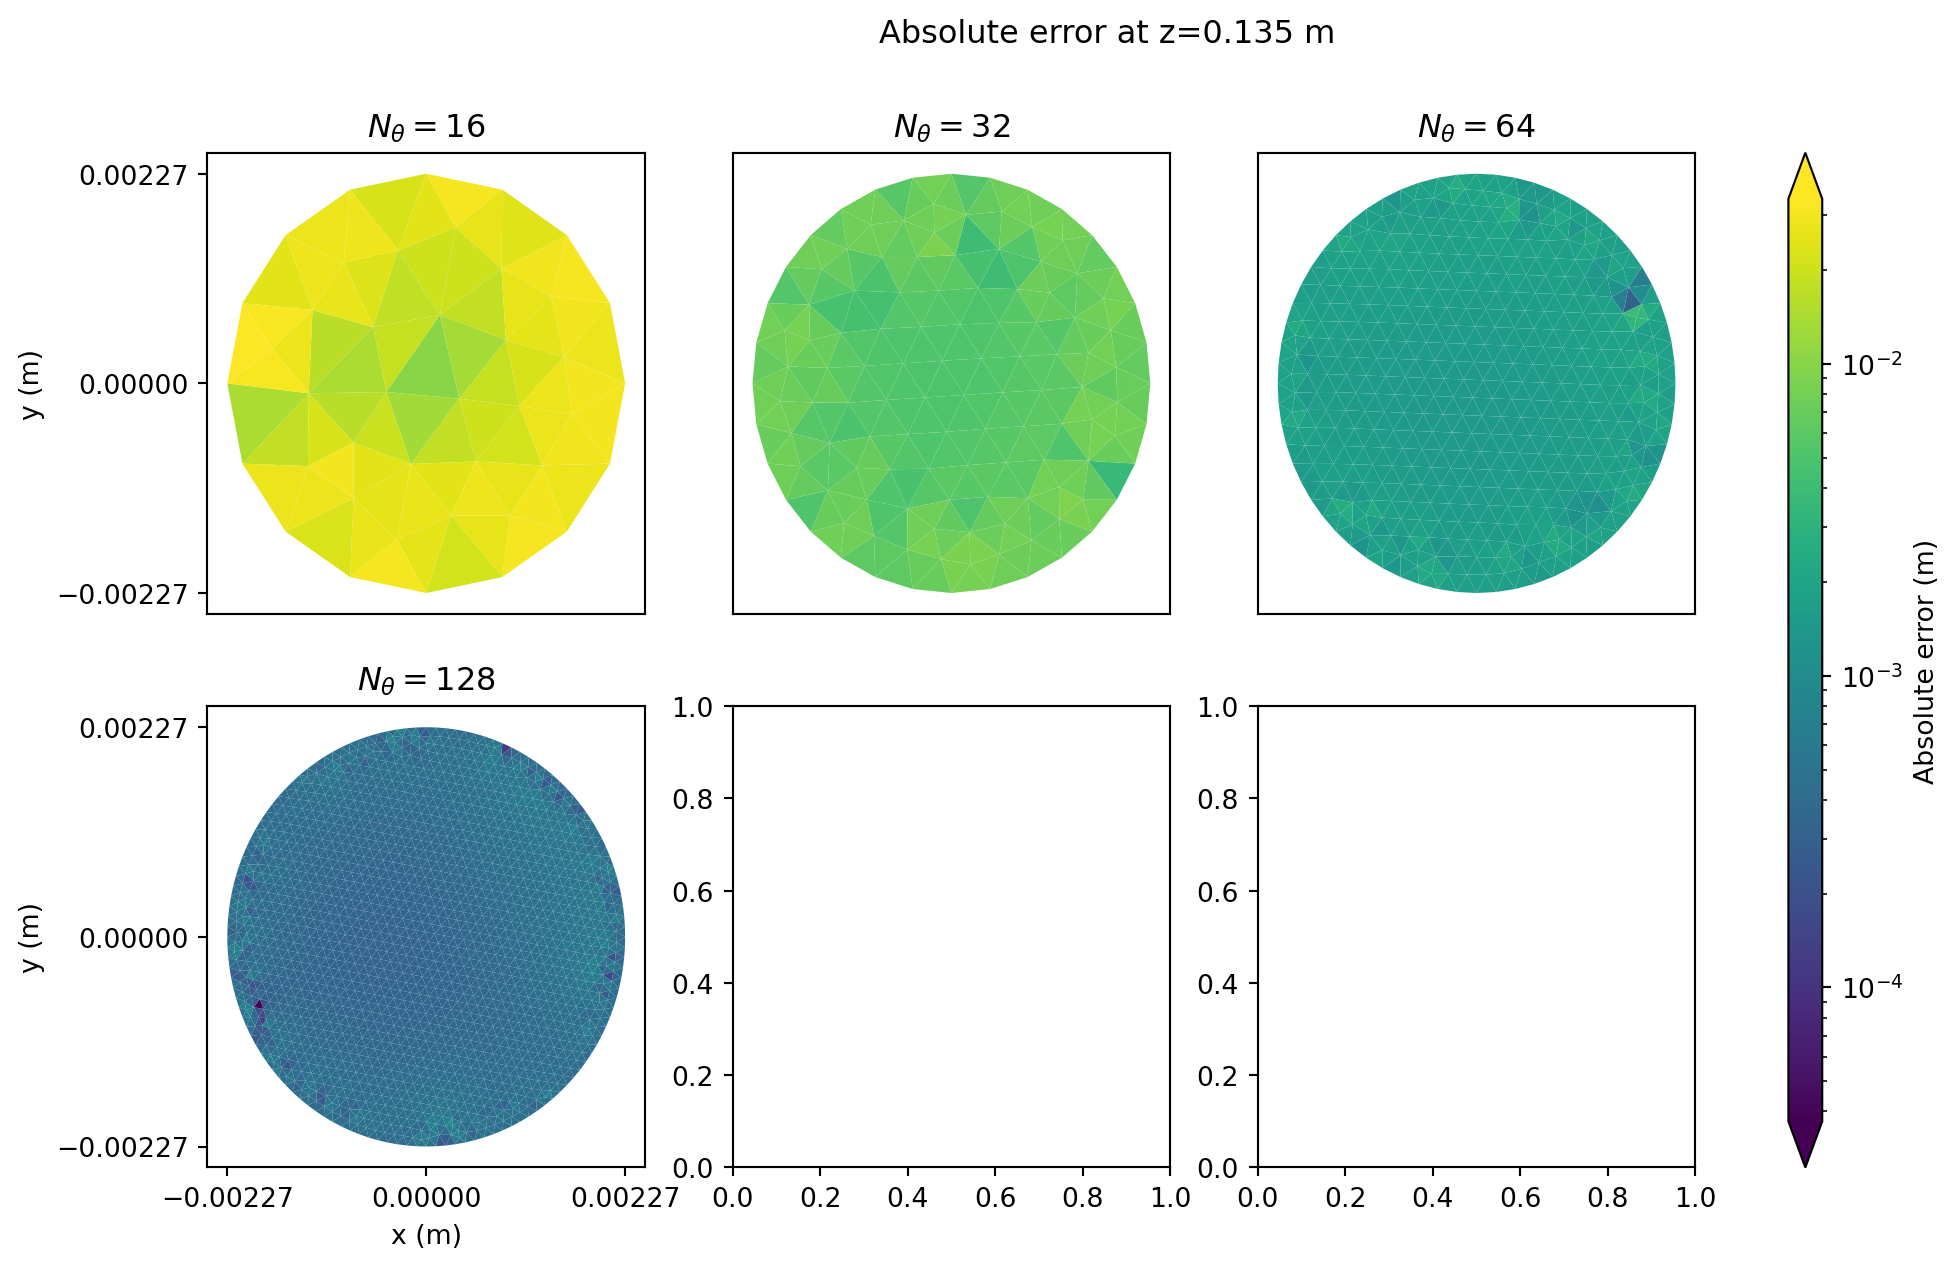
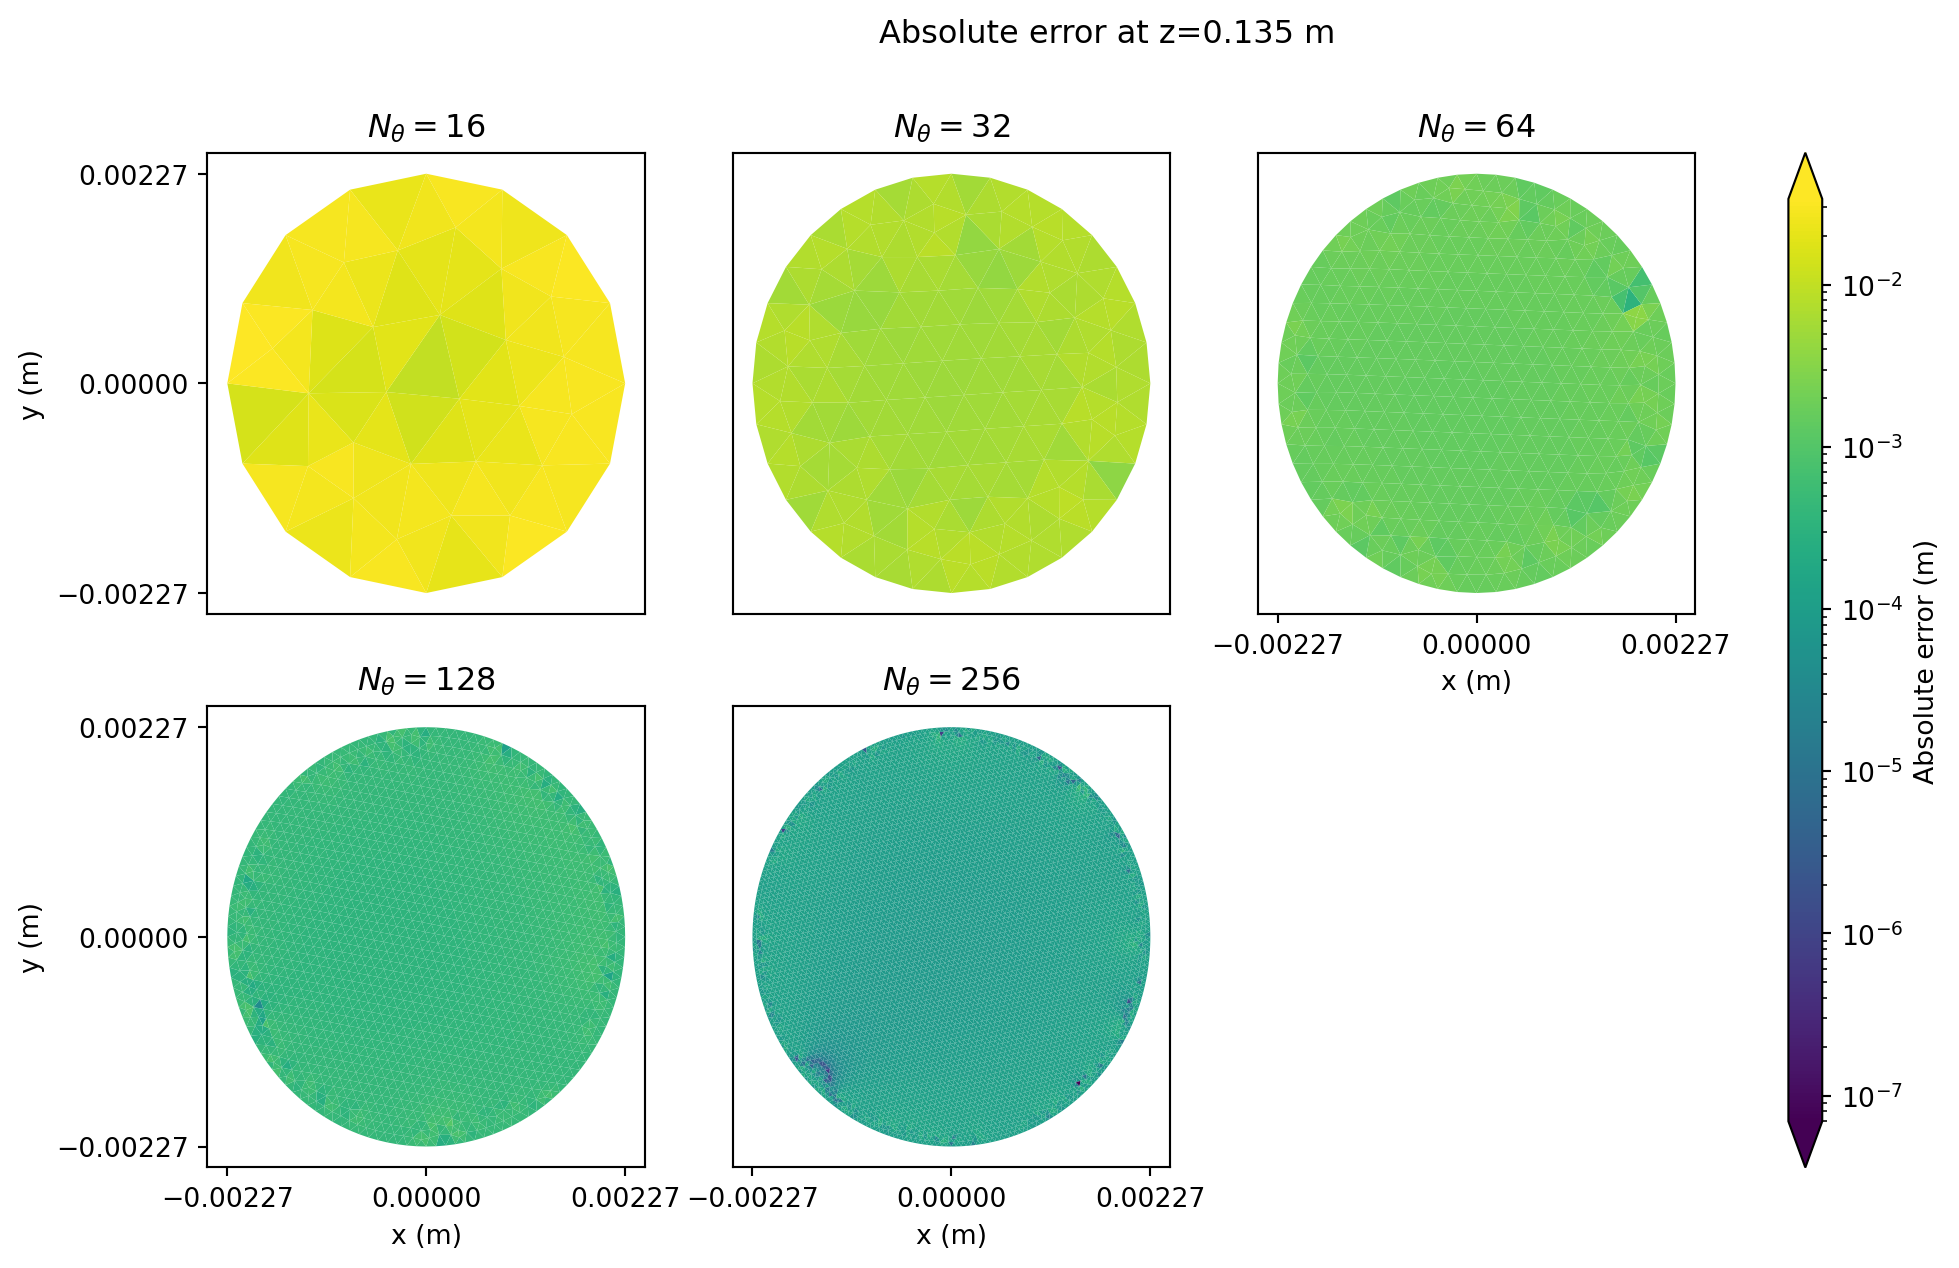
update README; update results; update postprocessing

diff --git a/README.md b/README.md
@@ -1,0 +1,115 @@
+A reproducibility package for simulation verification of pipe flow with OpenFOAM.
+
+## Usage
+--------
+
+### Creating a Singularity/Apptainer image
+-------------------------------------------
+
+We use a Singularity (or what is now named Apptainer) image to provide all required tools (e.g.,
+OpenFOAM, Gmsh, Python, etc.). Using a Singularity image guarantees that we don't need to install
+anything else on working machines or HPC clusters.
+
+If the current user has root privilege, then simply do (assuming currently under the repo folder):
+
+```shell
+# singularity build openfoam9.sif ./Singularity
+```
+
+If the current user does not have root privilege, try
+
+```shell
+$ singularity build --fakeroot openfoam9.sif ./Singularity
+```
+The above command requires the system admins to correctly configure the user namespace. To see if
+the user namespace is configured correctly, check the files `/etc/subuid` and `/etc/subgid` and find
+the line with your username and your group:
+
+```shell
+$ cat /etc/subuid
+-------------------
+...
+<your username>:<a number much greater than 65535>:<a number greater than 98765>
+...
+```
+
+```shell
+$ cat /etc/subgid
+-------------------
+...
+<the group you belong to>:<a number much greater than 65535>:<a number greater than 98765>
+...
+```
+
+If these two options do not work for you, try the cloud builders: https://cloud.sylabs.io/builder
+
+Finally, if using Apptainer (the newer community version of Singularity), just substitute
+`singularity` with `apptainer`.
+
+
+### Creating case folders
+-------------------------
+
+To create case folders:
+
+```shell
+$ singularity exec openfoam9.sif python ./main.py
+```
+
+As this is a reproducibility package, what cases to create are hard coded.
+
+To create a custom case, use the following command to see how to use `main.py` to do so:
+
+```shell
+$ singularity exec openfoam9.sif python ./main.py --help
+```
+
+***Note***!! The script `main.py` will create mesh files on the fly. Generating meshes requires a
+non-trivial amount of memory, especially for the case `airflow-pipe-256` (and `airflow-pip-512`, if
+it exists). It may crash on small personal desktops and laptops.
+
+
+### Running cases
+-----------------
+
+Each case has a file `job.sh` that can be used as either a Slurm job script or a regular shell
+script.
+
+If using it as a Slurm script, note that the resource configuration in `job.sh` is based on the
+Pegasus cluster at the George Washington University. You may need to manually change the
+configuration based on your cluster.
+
+To submit a case using Slurm:
+
+```shell
+$ cd <a case folder>
+$ sbatch job.sh
+```
+
+`job.sh` uses the OpenFOAM installation in the Singularity/Apptainer image. So the cluster must
+have Singularity/Apptainer. The script assumes the cluster uses Lmod and loads
+Singularity through `module load singularity`. The cluster also needs OpenMPI 4.0+ and loads
+OpenMPI through `module load openmpi/gcc/64/4.1.0`. Modify them based on the actual clusters being
+used.
+
+To run a case using a regular Linux machine:
+
+```shell
+$ sh ./job.sh <number of MPI processes to use>
+```
+
+## Results
+----------
+
+* Absolute error (against analytical soln.) at cross section z=0.135m
+  ![abserr0135](./figs/abs_err_z_0135.png)
+* Relative error (against analytical soln.) at cross section z=0.135m
+  ![relerr0135](./figs/rel_err_z_0135.png)
+* Error convergence of the maximum velocity in the entire domain
+  ![errmax](./figs/abs_err_umax_entire.png)
+* Error convergence of the maximum velocity at cross section z=0.135m
+  ![errmax0135](./figs/abs_err_umax_z_0135.png)
+* Error convergence of the $L_\infty$ at cross section z=0.135m
+  ![l2135](./figs/abs_err_linf_z_0135.png)
+* Error convergence of the $L_2$ at cross section z=0.135m
+  ![l2135](./figs/abs_err_l2_z_0135.png)
